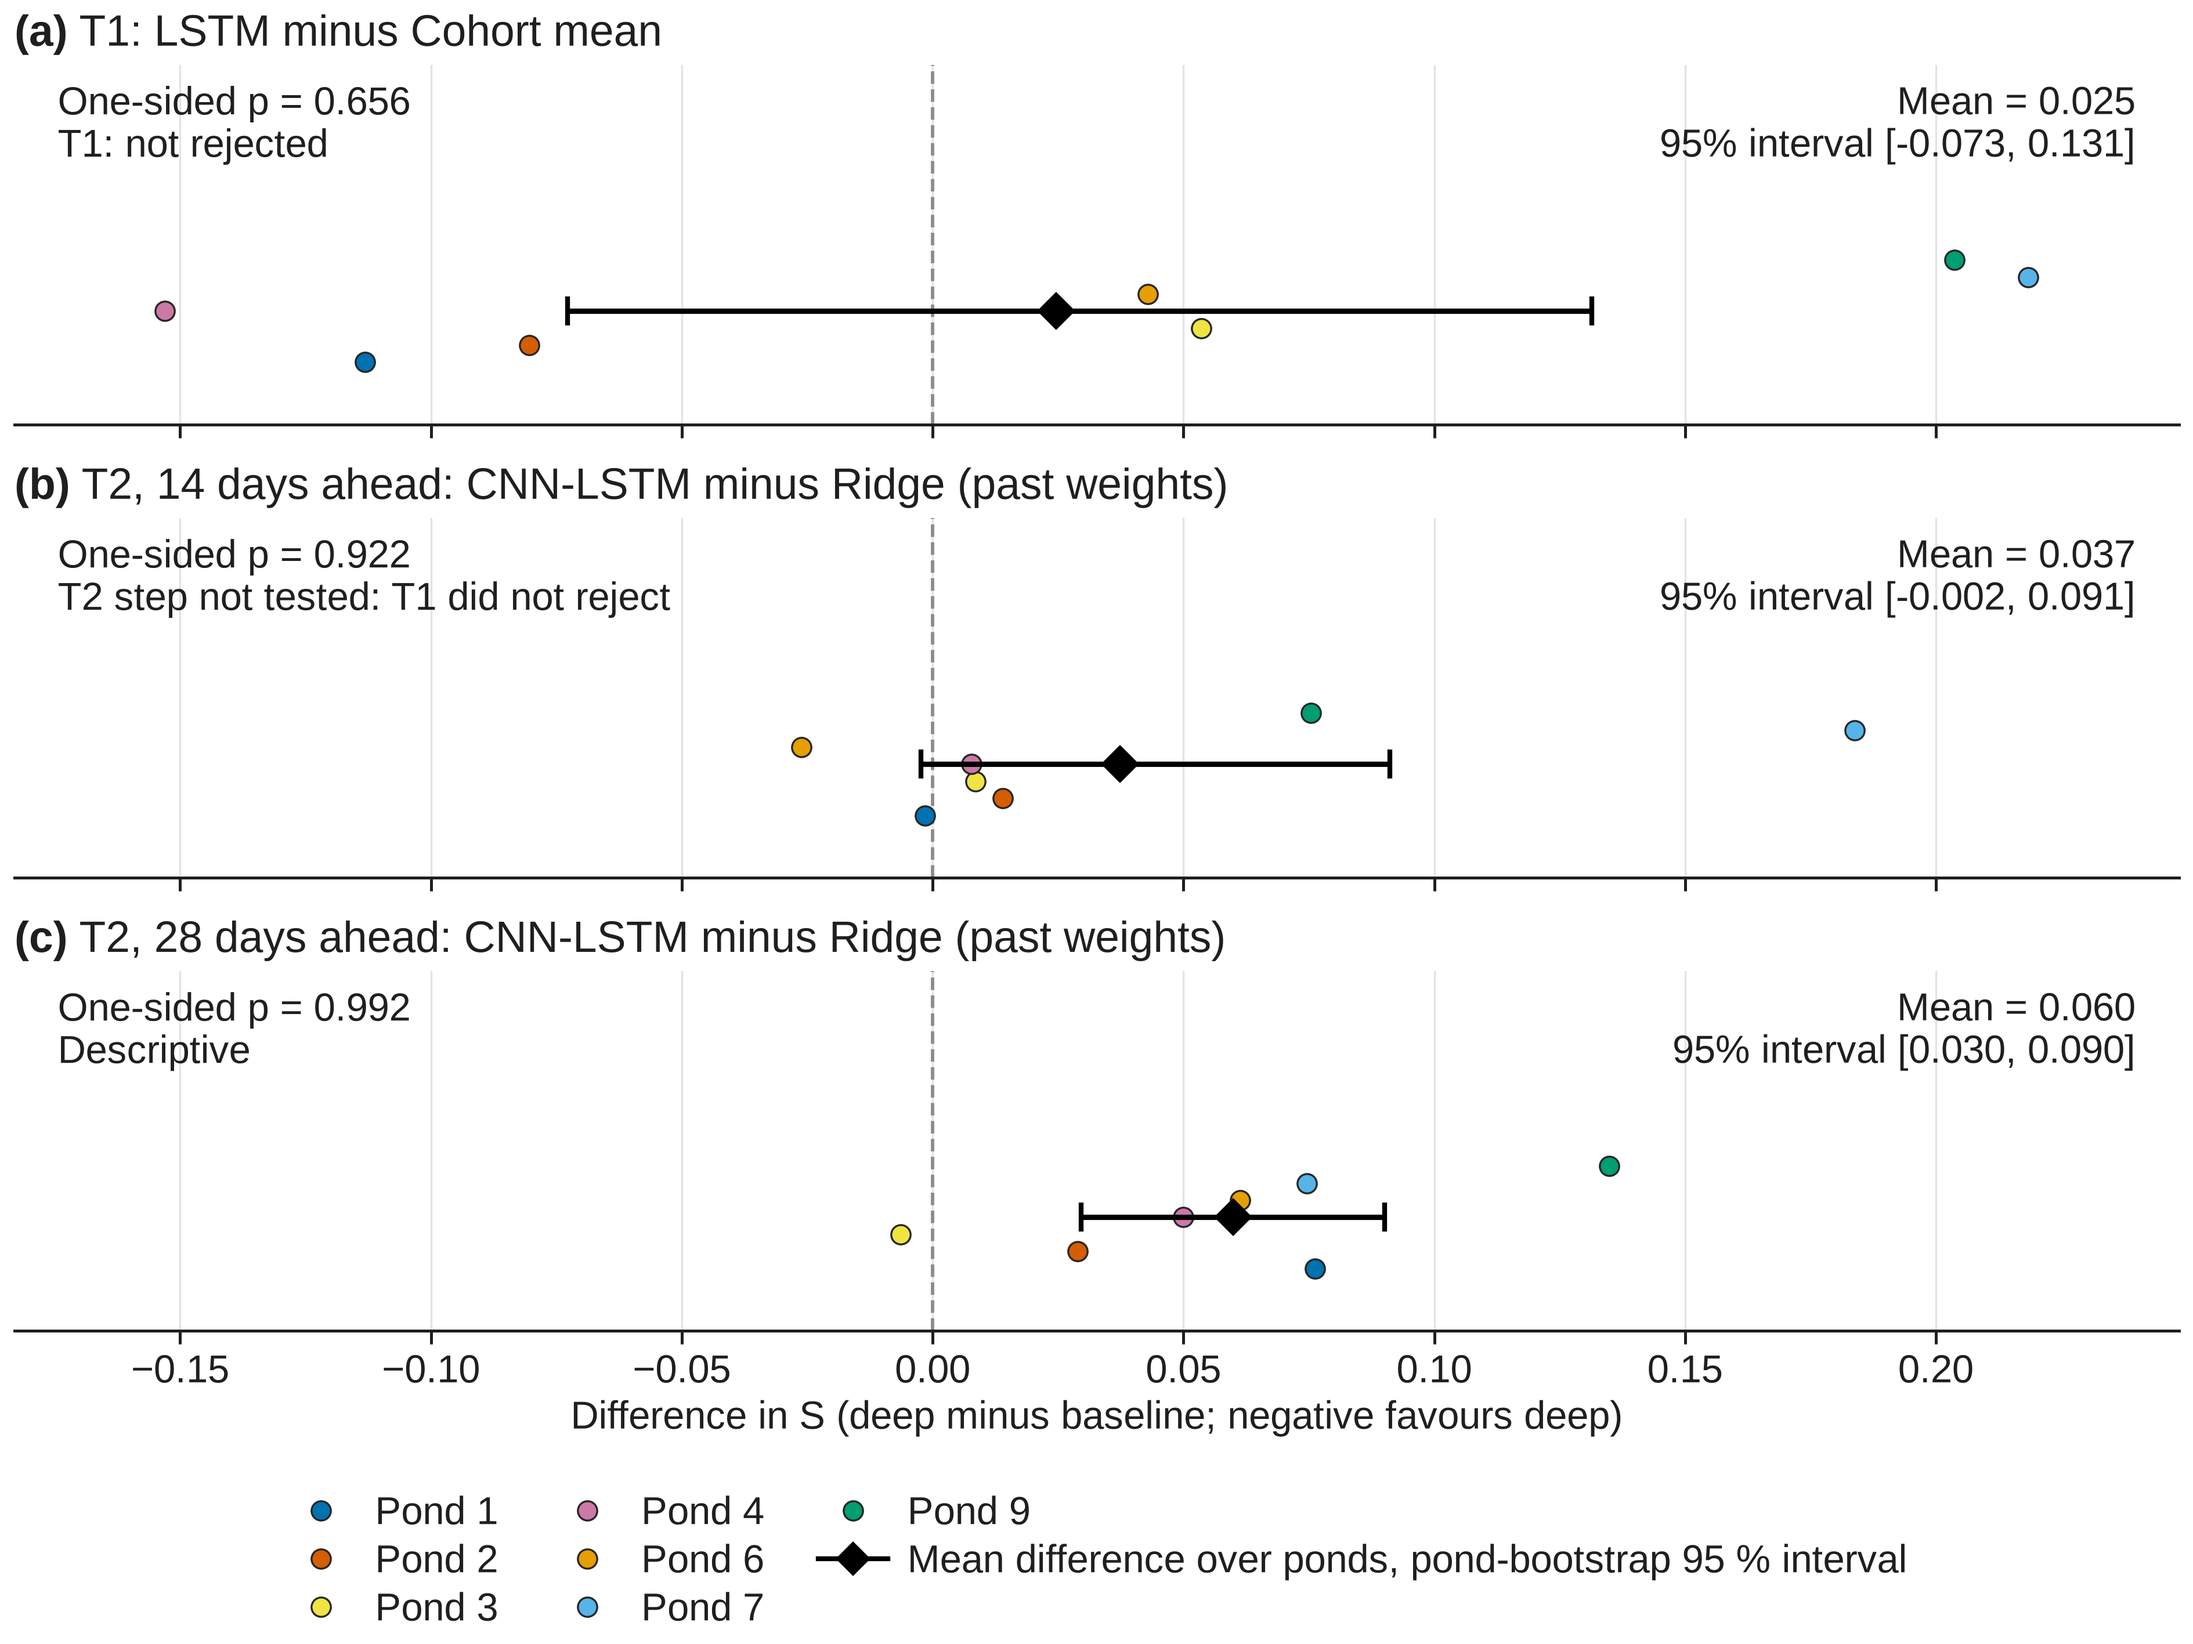
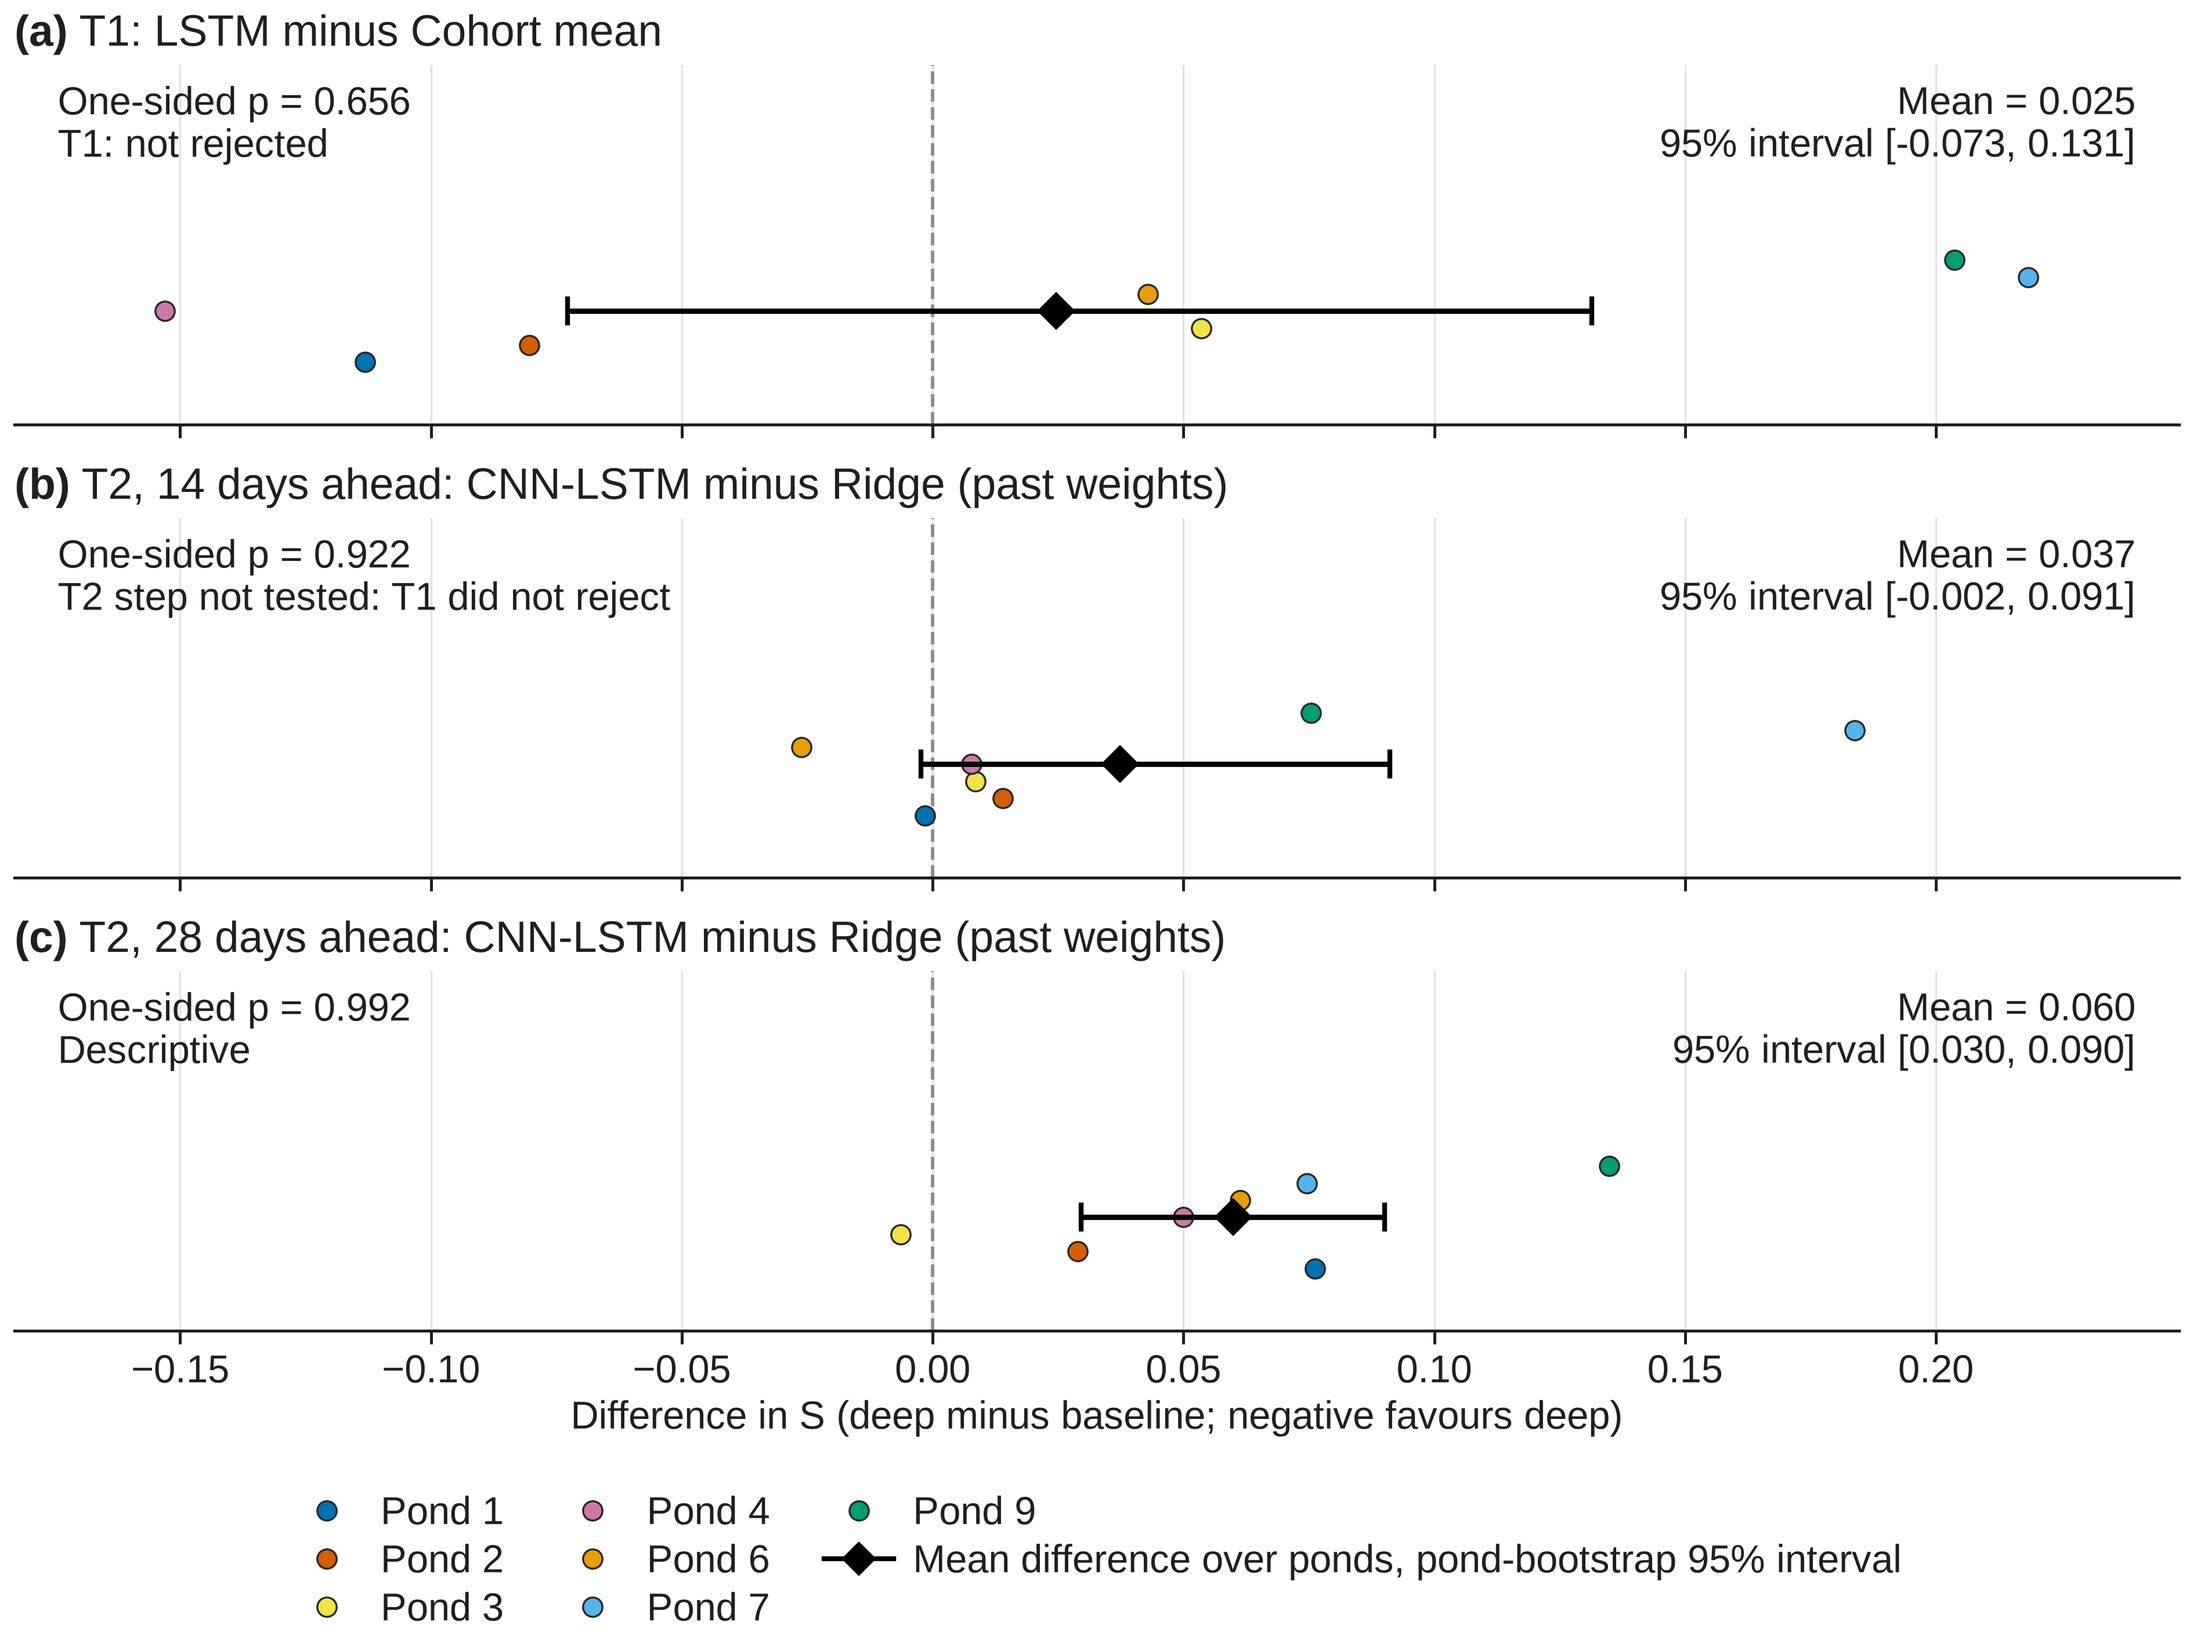
Phase 9 scan scripts (dry run); percent without a space in tables and figures; original-design tables keep NA; lead checklist for the 7c merge

Changed region(s): [[0.3747, 0.9005, 0.8743, 0.9626], [0.1249, 0.9005, 0.2498, 0.9936], [0.281, 0.9005, 0.3435, 0.9936]]

diff --git a/reporting/tables/original_design.py b/reporting/tables/original_design.py
@@ -7,7 +7,11 @@ import sys
 sys.dont_write_bytecode = True
 sys.path.insert(0, str(Path(__file__).resolve().parent))
 
-from shared import MISSING, Sources, number, write_table
+from shared import Sources, number, write_table
+
+# These tables write NA for unavailable values, as their footers define it (shared.MISSING is the
+# dash of the Phase 4 tables).
+MISSING = "NA"
 
 
 INPUTS = {
@@ -17,7 +21,7 @@ INPUTS = {
     "wq_only": "water quality only",
 }
 DESIGNS = {
-    "S0_notebook": "Notebook design (scaler fitted on all rows; last 20 % of rows as test)",
+    "S0_notebook": "Notebook design (scaler fitted on all rows; last 20% of rows as test)",
     "S1_chrono": "Chronological split (scaler fitted on training rows)",
     "S2_random": "Random split of windows",
 }
@@ -104,7 +108,7 @@ def main() -> None:
     write_table("original_design", ["Design", "Inputs", "Model", "Seeds", "MAE (g)", "RMSE (g)", "MAPE (%)", "R^{2}"],
                 rows, sources, [
         "The diagnostic grid contributes only evaluation set all; every other grid row is in original_design_detail.",
-        "Constants: submitted manuscript, Table 3, single-step CNN-LSTM MAE 0.55 g, RMSE 1.95 g, MAPE 0.20 %; submitted manuscript, Table 4, 18-step TFT 1.78 g, 2.25 g, 3.70 %, and CNN-LSTM 12.75 g, 18.41 g, 26.60 %. These are reported claims, not recomputed results. Their input label describes the manuscript inputs, not verified training code; seeds and R2 are unavailable.",
+        "Constants: submitted manuscript, Table 3, single-step CNN-LSTM MAE 0.55 g, RMSE 1.95 g, MAPE 0.20%; submitted manuscript, Table 4, 18-step TFT 1.78 g, 2.25 g, 3.70 %, and CNN-LSTM 12.75 g, 18.41 g, 26.60 %. These are reported claims, not recomputed results. Their input label describes the manuscript inputs, not verified training code; seeds and R2 are unavailable.",
         "Submitted metrics retain their reported precision; recomputed diagnostics follow the precision rules below.",
         "The post hoc notebook-input CNN-LSTM row is scored on the original final test period only. Its saved summary does not supply R2.",
         "The single 18-step persistence row uses S0_notebook, horizon 18, pooled over origins and steps, for comparison with the submitted claims. Persistence has no fitted model; Seeds = 1 denotes one deterministic evaluation. S1_chrono is not substituted or pooled with S0.",

diff --git a/reporting/tables/check_part_b.py b/reporting/tables/check_part_b.py
@@ -218,7 +218,7 @@ def check(directory: Path,cfg: dict) -> None:
     for name,scheme,sample_set,groups in [('main_results','lopo','eligible',ORDER[:-1]),('main_results_full','lopo','eligible',ORDER),('calendar_holdout','chrono','eligible',ORDER[:-1]),
                                           ('all_events','lopo','all',('all_sample_set',)),('sensitivity','lopo','eligible',('sensitivity',))]:
         compact=name!='main_results_full'
-        full_header=['Task / horizon','Group','Model','Primary baseline','Ponds','Samples','Seeds','S','S bootstrap 95 % interval',
+        full_header=['Task / horizon','Group','Model','Primary baseline','Ponds','Samples','Seeds','S','S bootstrap 95% interval',
                      'MAE (g)','RMSE (g)','MAPE (%)','R^{2}','Ponds with lower S','SD across ponds of S','SD across ponds of MAE (g)']
         expected_header=[c for c in full_header if c not in ('Primary baseline','Ponds','Samples','Seeds','SD across ponds of S','SD across ponds of MAE (g)')]
         expected=[]
@@ -265,7 +265,7 @@ def check(directory: Path,cfg: dict) -> None:
             if scheme=='lopo' and sample_set=='eligible':
                 b=one(bootstrap,task=task,horizon=h,model=model)
                 interval=f"{fmt(b['ci_low'],'s')} to {fmt(b['ci_high'],'s')}"
-            wanted={'S':seed_metric(seed_s,'s'),'S bootstrap 95 % interval':interval,
+            wanted={'S':seed_metric(seed_s,'s'),'S bootstrap 95% interval':interval,
                     comparison if compact else 'Ponds with lower S':str(count)}
             if not compact:
                 wanted.update({'Ponds':str(len(pond_rows)),'Samples':str(sum(int(r['n']) for r in pond_rows)),'Seeds':str(len(seeds)),

diff --git a/reporting/tables/check_tables.py b/reporting/tables/check_tables.py
@@ -22,7 +22,7 @@ MAIN_HEADER = ["Design", "Inputs", "Model", "Seeds", "MAE (g)", "RMSE (g)", "MAP
 DETAIL_HEADER = ["Design", "Inputs", "Model", "Evaluation set", "Seeds", "n min", "n max", *MAIN_HEADER[4:]]
 INPUT_LABELS = {"none": "none", "notebook": "notebook inputs (water quality and the lagged weight)",
                 "manuscript": "manuscript inputs (water quality, population, length)", "wq_only": "water quality only"}
-DESIGN_LABELS = {"S0_notebook": "Notebook design (scaler fitted on all rows; last 20 % of rows as test)",
+DESIGN_LABELS = {"S0_notebook": "Notebook design (scaler fitted on all rows; last 20% of rows as test)",
                  "S1_chrono": "Chronological split (scaler fitted on training rows)", "S2_random": "Random split of windows"}
 EVAL_LABELS = {"all": "All test windows", "change_rows": "Test rows where weight changes",
                "grid_first_rows": "First test row on each 14-day measurement-grid date"}

diff --git a/reporting/figs/fig_workflow.py b/reporting/figs/fig_workflow.py
@@ -196,7 +196,7 @@ def draw(canvas: Canvas, top: float, f: dict) -> float:
         ("Primary statistic S", "Mean over ponds of the mean absolute error of log weight.", w_m),
         ("Wilcoxon test", "Exact one-sided signed-rank test in a fixed sequence: T1, then T2 at 14 days.", w_m),
         ("Permutation test", "Water-quality inputs shuffled among sensor streams within a sampling date.", w_m),
-        ("Bootstrap", f"Pond-level resampling, B\u00a0=\u00a0{f['boot']}, for 95 % intervals.", w_m),
+        ("Bootstrap", f"Pond-level resampling, B\u00a0=\u00a0{f['boot']}, for 95% intervals.", w_m),
     ]
     h7 = row_height(stats)
     b_stats = [canvas.box(CONTENT_X + i * (w_m + gap), y - h7, w_m, h7, title, body, fc=fill("statistics"), valign="top")

diff --git a/reporting/figs/fig_confirmatory.py b/reporting/figs/fig_confirmatory.py
@@ -80,7 +80,7 @@ def main() -> dict:
     axes[-1].set_xlim(min(all_differences) - 0.03, max(all_differences) + 0.03)
     axes[-1].set_xlabel("Difference in S (deep minus baseline; negative favours deep)")
     fig.legend(handles=[*p.pond_handles(), Line2D([], [], color="black", marker="D", ms=4,
-                               label="Mean difference over ponds, pond-bootstrap 95 % interval")],
+                               label="Mean difference over ponds, pond-bootstrap 95% interval")],
                loc="outside lower center", ncol=3)
     return p.finish(fig, "fig_confirmatory", "main", CAPTION)
 

diff --git a/reporting/tables/phase4.py b/reporting/tables/phase4.py
@@ -15,7 +15,7 @@ from shared import MISSING, ROOT, Sources, literal, number, write_table
 STOP = "stopped (plan 9.0)"
 GROUPS = ("time_only", "water_quality", "reference", "deep", "static_only", "sensitivity")
 RESULT_HEADER = ["Task / horizon", "Group", "Model", "Primary baseline", "Ponds", "Samples", "Seeds",
-                 "S", "S bootstrap 95 % interval", "MAE (g)", "RMSE (g)", "MAPE (%)", "R^{2}",
+                 "S", "S bootstrap 95% interval", "MAE (g)", "RMSE (g)", "MAPE (%)", "R^{2}",
                  "Ponds with lower S", "SD across ponds of S", "SD across ponds of MAE (g)"]
 
 
